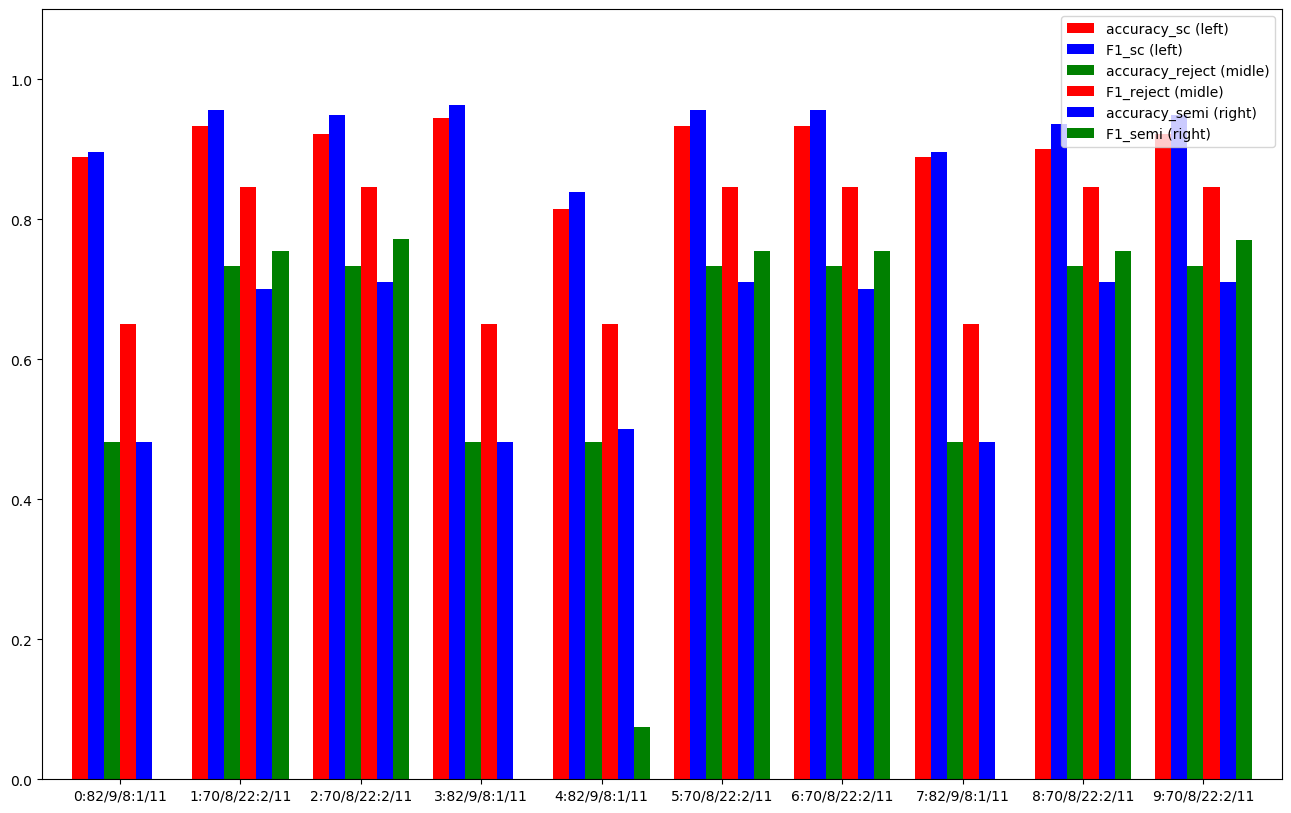
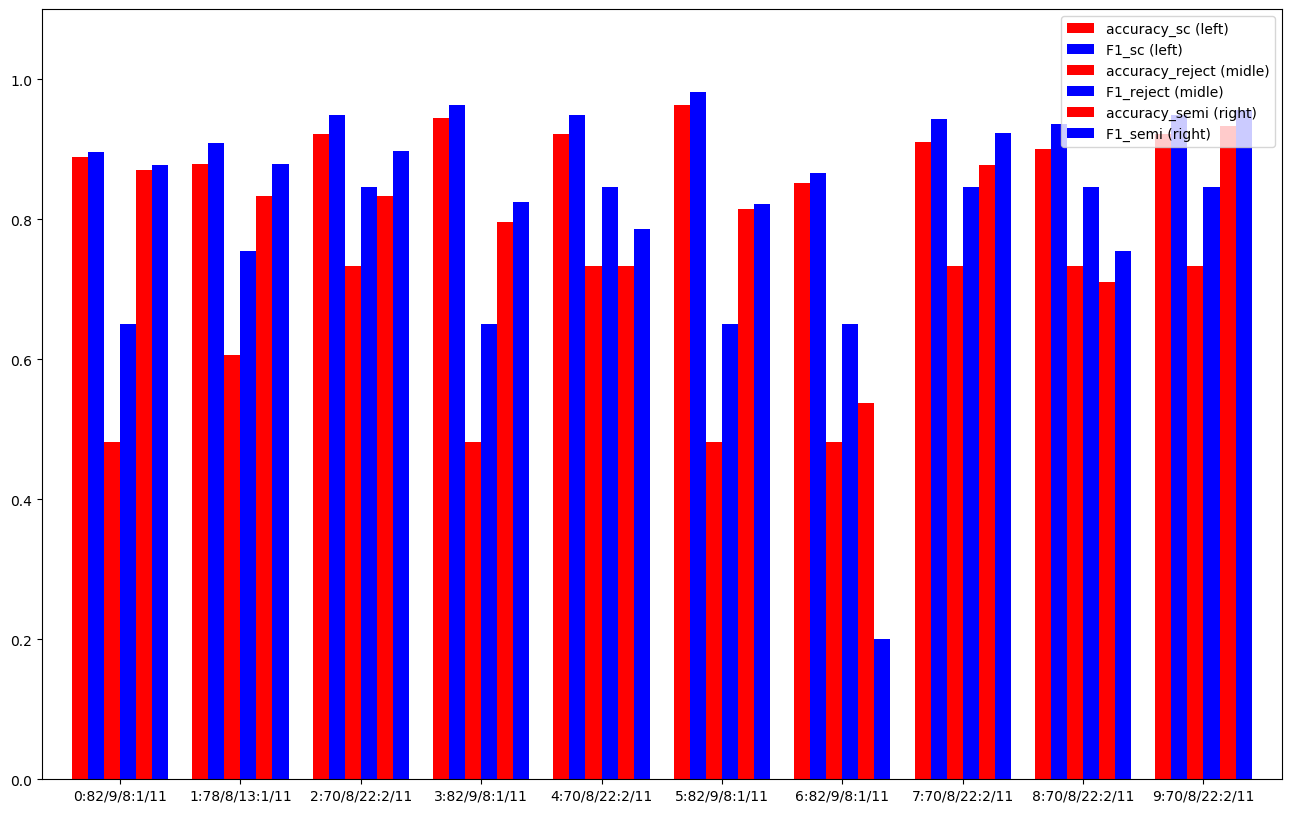
new cross-validation

diff --git a/Code/ClassificificationWithRejection/Runme.py b/Code/ClassificificationWithRejection/Runme.py
@@ -134,7 +134,7 @@ for prefixFileName in ["pollen", "patel", "baron"]:
             # threshold_rejection = 1, 0.9, 0.8, ...
             threshold_rejection = 0.7
             # max_proportion_unknown = 1, 0.9, 0.8, ...
-            proportion_unknown = 0.2
+            proportion_unknown = 0.4
             # max_proportion_unknown = 1, 0.9, 0.8, ...
         #    left_out_proportion = 0.0
             # filter_proportion = 5, 10, 15
